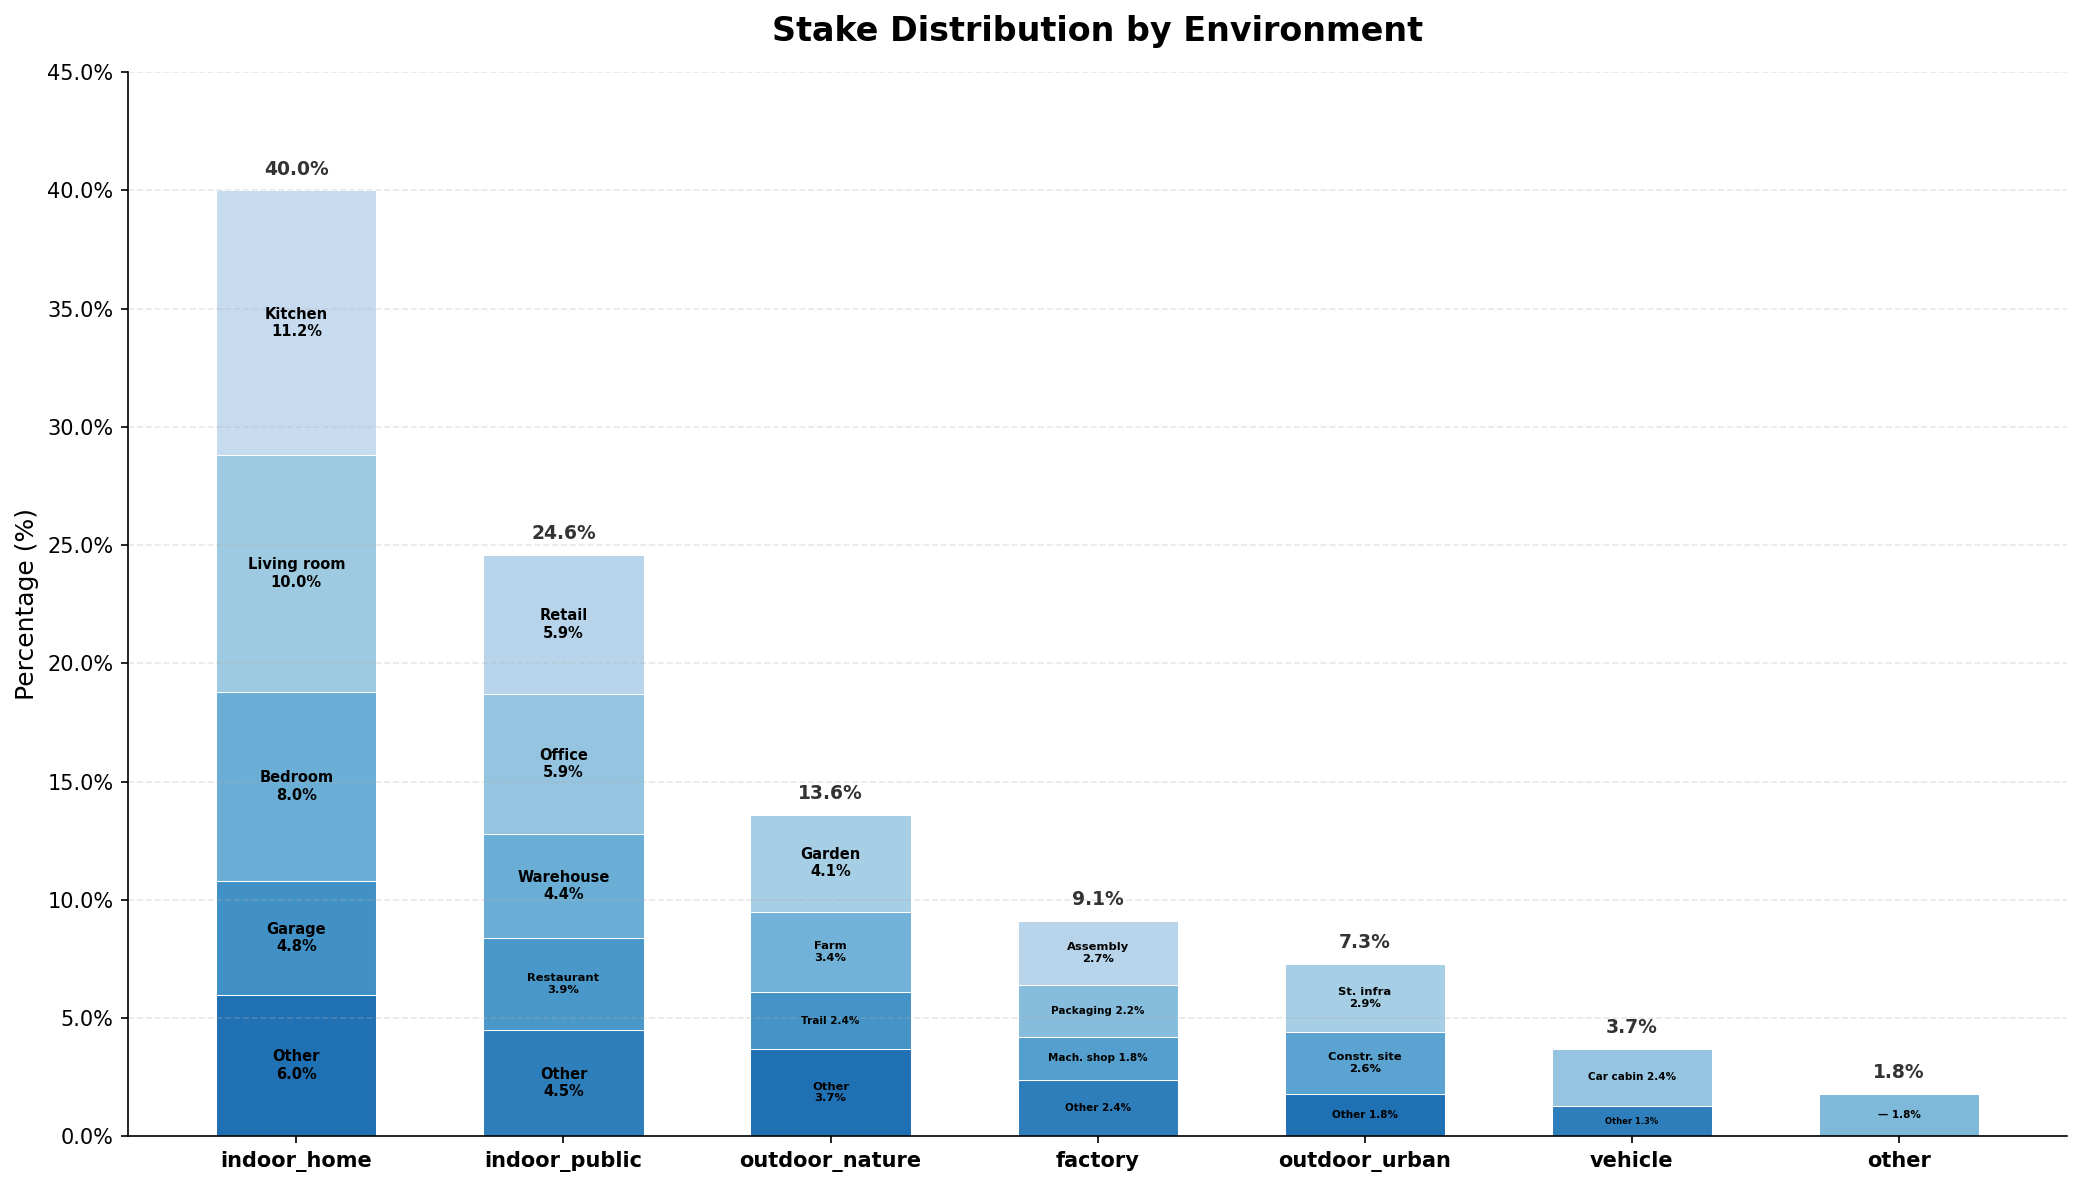
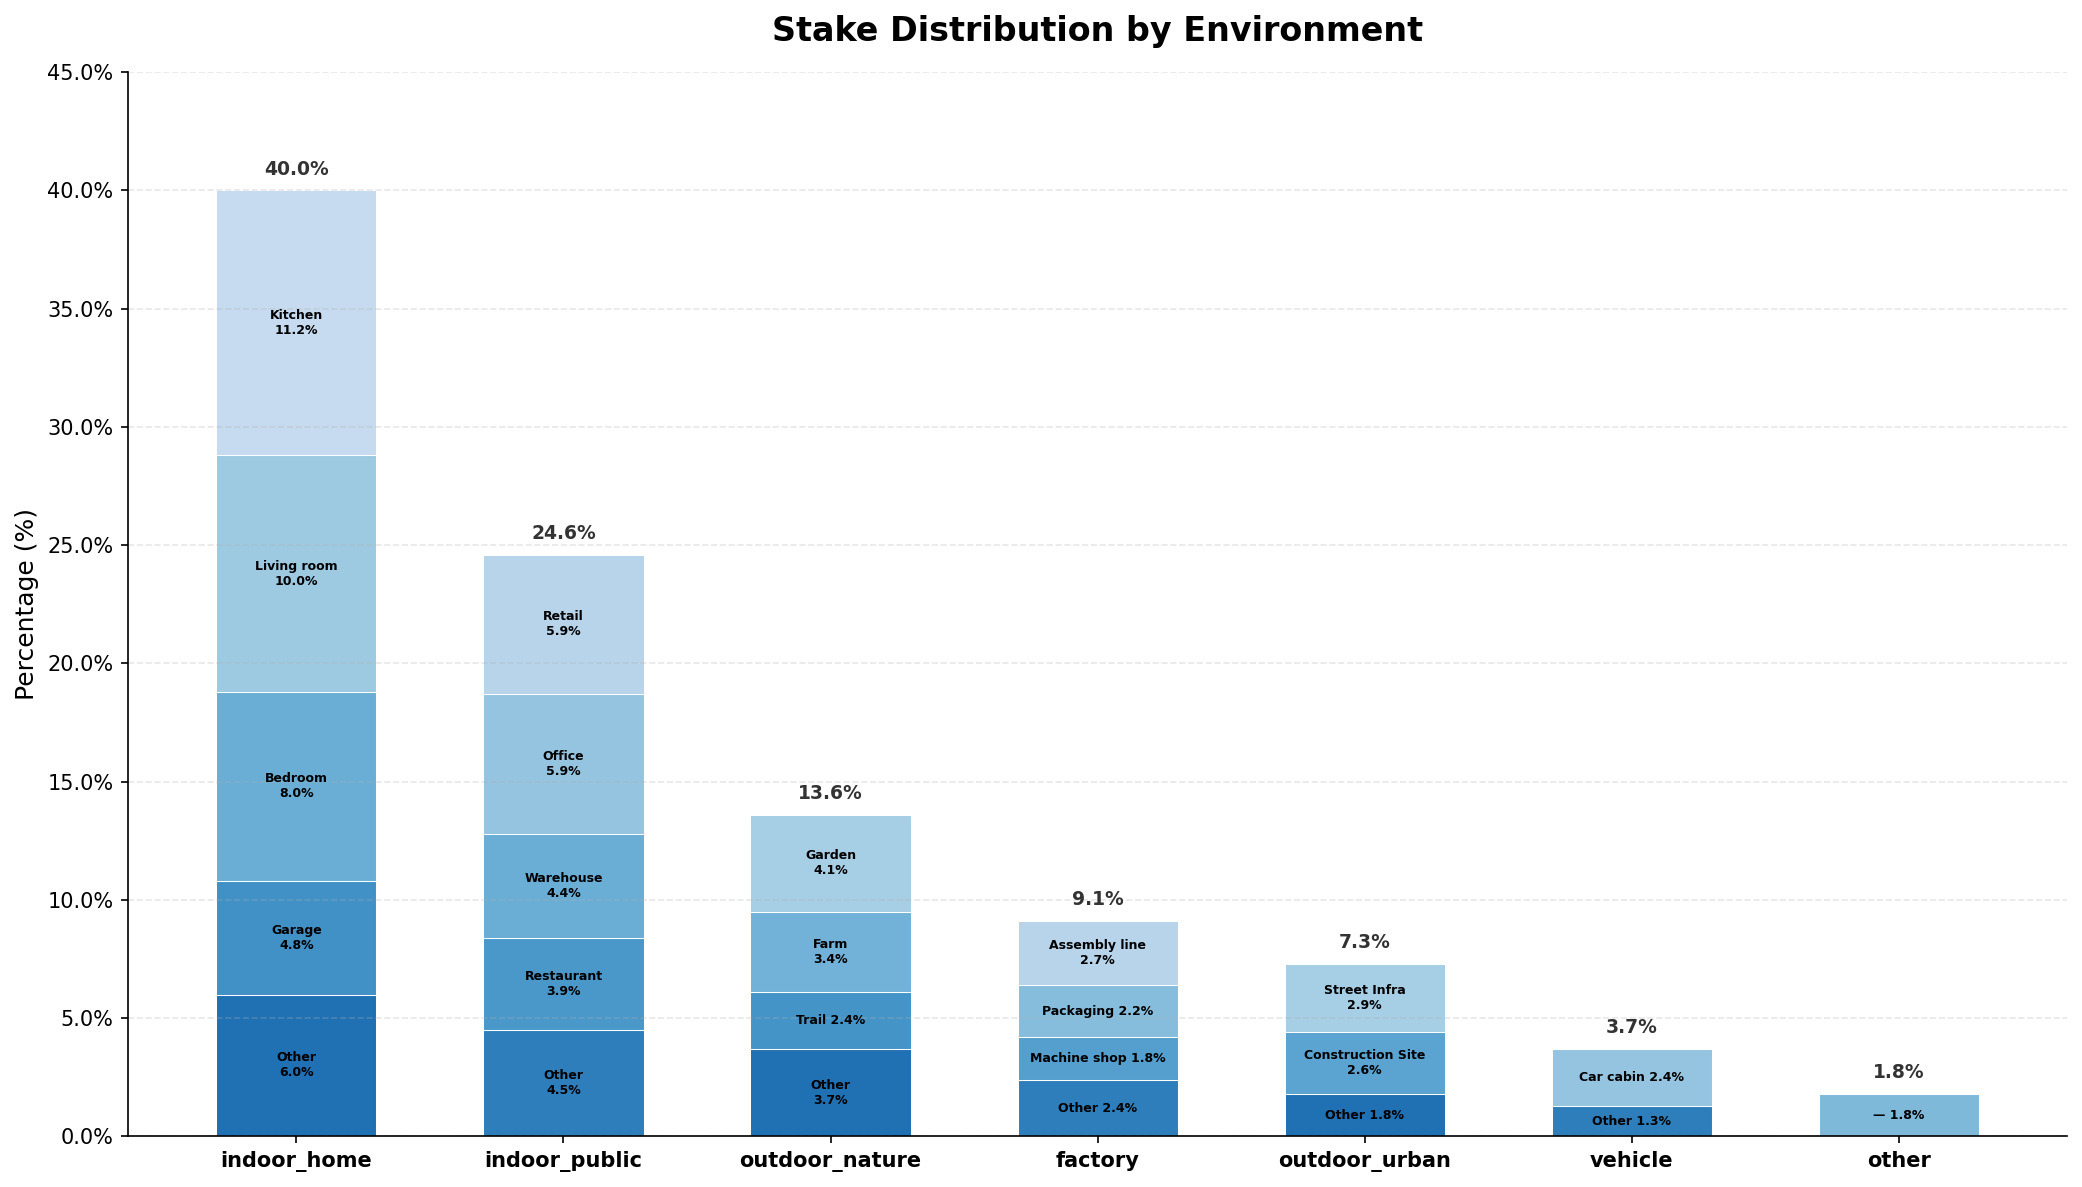
Restore full label names and use uniform font size across all segments
https://claude.ai/code/session_018xFGws4xpUTXJntMBVQsZP

diff --git a/stake_histogram.py b/stake_histogram.py
@@ -25,14 +25,14 @@ data = {
         ("Other", 3.7),
     ],
     "factory": [
-        ("Assembly", 2.7),
+        ("Assembly line", 2.7),
         ("Packaging", 2.2),
-        ("Mach. shop", 1.8),
+        ("Machine shop", 1.8),
         ("Other", 2.4),
     ],
     "outdoor_urban": [
-        ("St. infra", 2.9),
-        ("Constr. site", 2.6),
+        ("Street Infra", 2.9),
+        ("Construction Site", 2.6),
         ("Other", 1.8),
     ],
     "vehicle": [
@@ -82,29 +82,19 @@ for i, env in enumerate(env_names):
             linewidth=0.5,
         )
 
-        # Add label inside the bar segment, scaling font to fit
+        # Add label inside the bar segment
         mid_y = bottom + pct / 2
-        display_name = sub_name
-
-        if pct >= 4.0:
-            label = f"{display_name}\n{pct}%"
-            fontsize = 7
-        elif pct >= 2.5:
-            label = f"{display_name}\n{pct}%"
-            fontsize = 5.5
-        elif pct >= 1.5:
-            label = f"{display_name} {pct}%"
-            fontsize = 5
+        if pct >= 2.5:
+            label = f"{sub_name}\n{pct}%"
         else:
-            label = f"{display_name} {pct}%"
-            fontsize = 4
+            label = f"{sub_name} {pct}%"
         ax.text(
             x_positions[i],
             mid_y,
             label,
             ha="center",
             va="center",
-            fontsize=fontsize,
+            fontsize=6,
             fontweight="bold",
             color="black",
             clip_on=True,
